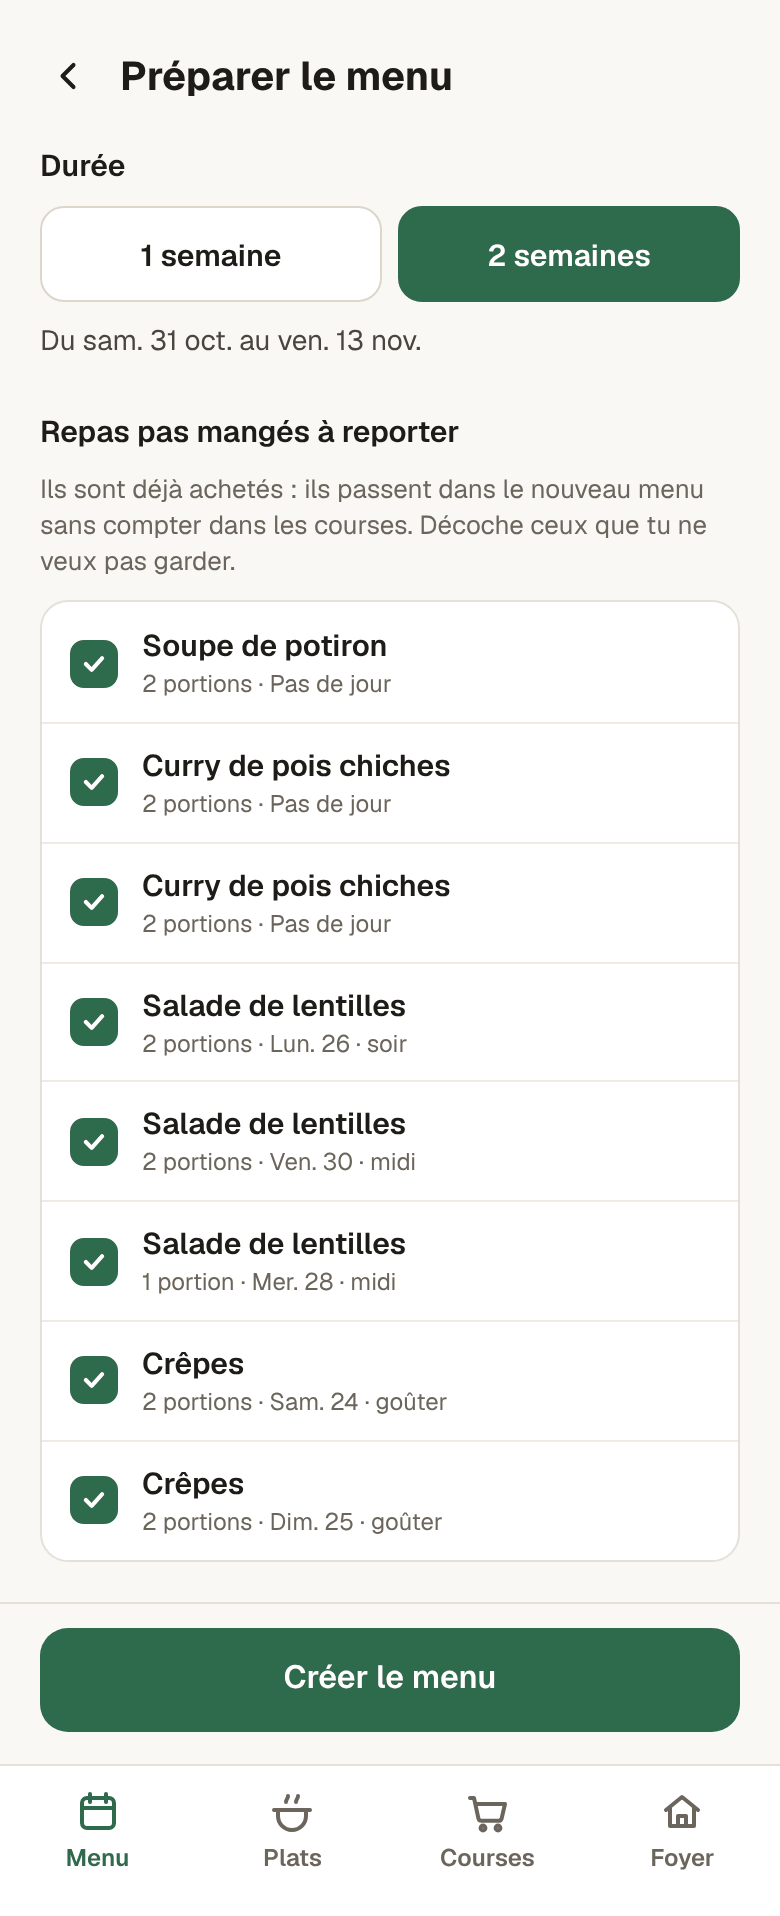
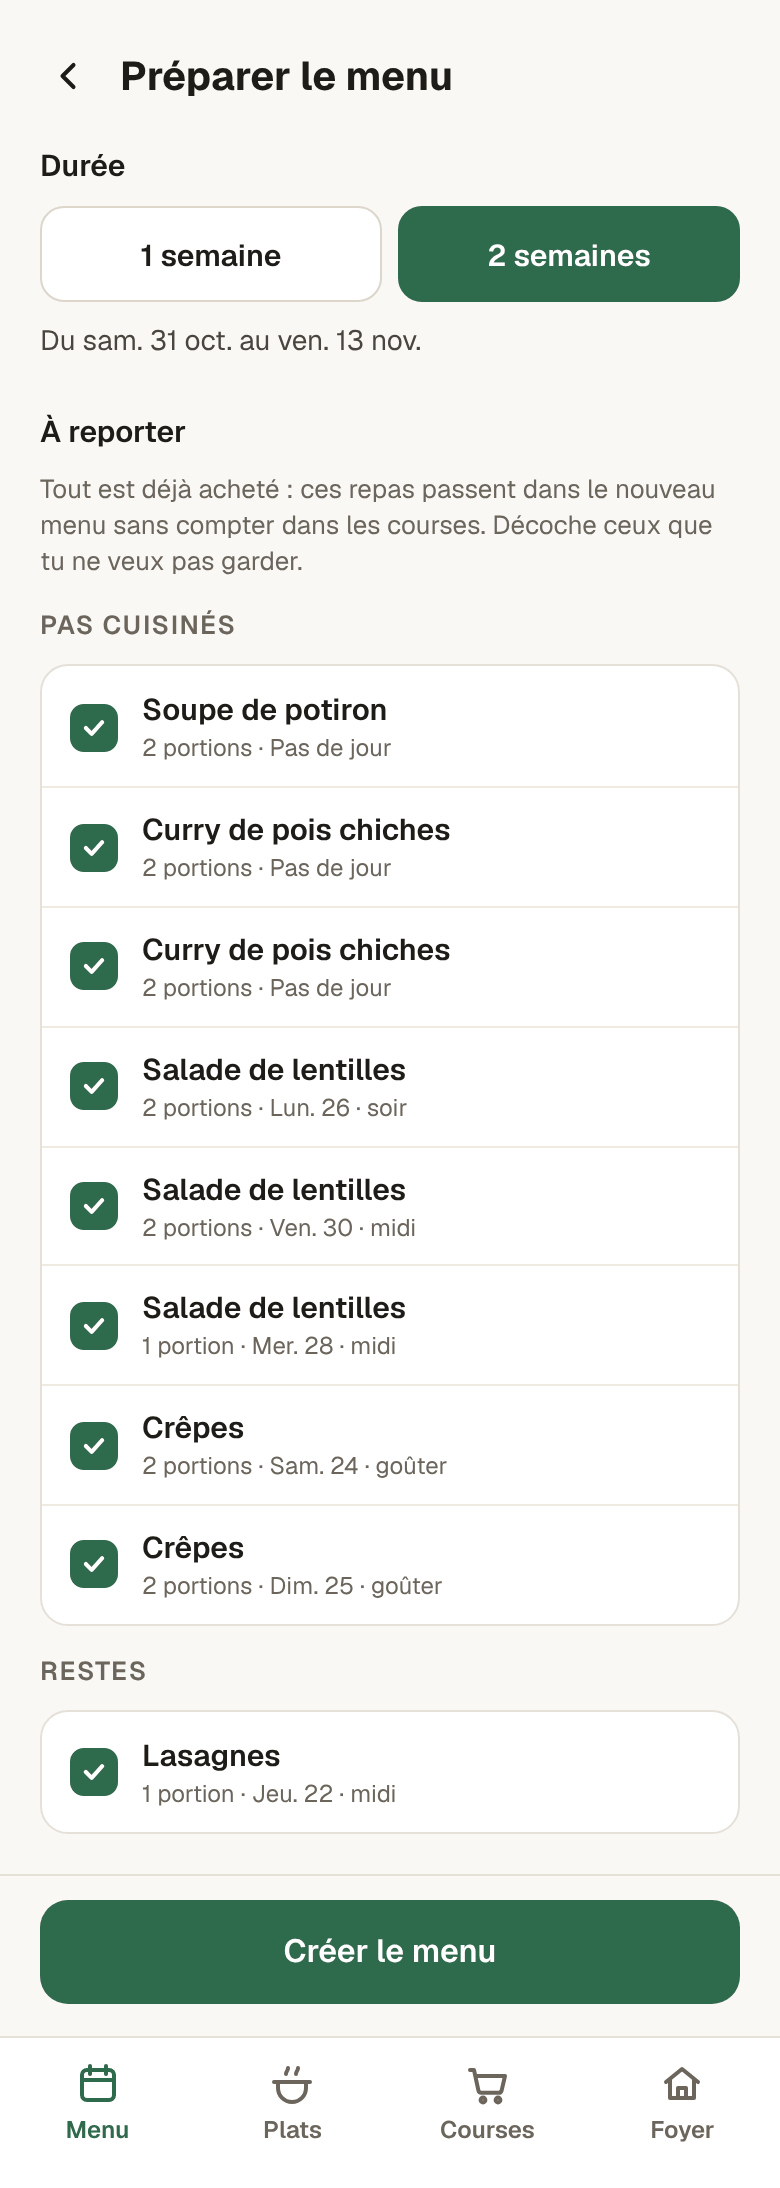
docs: add cooked and split meal to the mockup (#28, #29, #30)
Claude-Session: https://claude.ai/code/session_01JKdr356e4cDrANtMrezvMz

Changed region(s): [[0.0308, 0.0924, 0.9538, 0.9854], [0.1538, 0.0308, 0.5846, 0.0616], [0.0308, 0.0308, 0.1538, 0.0924]]

diff --git a/docs/maquette/maquette.dc.html b/docs/maquette/maquette.dc.html
@@ -63,7 +63,10 @@ input,select,textarea{font:inherit;color:#1E1C19}
 <span aria-hidden="true">·</span>
 <span style="color: {{item.whenColor}}">{{item.when}}</span>
 <sc-if value="{{item.carried}}" hint-placeholder-val="{{false}}">
-<span style="background: #F6E7D6; color: #7A4210; border-radius: 6px; padding: 1px 7px; font-size: 12px; font-weight: 600">Reporté</span>
+<span style="background: #F6E7D6; color: #7A4210; border-radius: 6px; padding: 1px 7px; font-size: 12px; font-weight: 600">{{item.carriedLabel}}</span>
+</sc-if>
+<sc-if value="{{item.toCook}}" hint-placeholder-val="{{false}}">
+<span style="background: #ECE8E0; color: #4A453E; border-radius: 6px; padding: 1px 7px; font-size: 12px; font-weight: 600">À cuisiner</span>
 </sc-if>
 </span>
 </button>
@@ -102,7 +105,11 @@ input,select,textarea{font:inherit;color:#1E1C19}
 </button>
 <button type="button" onClick="{{item.open}}" style="flex: 1; min-width: 0; min-height: 44px; display: flex; flex-direction: column; justify-content: center; gap: 2px">
 <span style="font-size: 16px; font-weight: 600; color: {{item.nameColor}}; text-decoration: {{item.nameDeco}}">{{item.name}}</span>
-<span style="font-size: 13px; color: #6B655C">{{item.portions}} · {{item.slotLabel}}</span>
+<span style="display: flex; flex-wrap: wrap; align-items: center; gap: 6px; font-size: 13px; color: #6B655C"><span>{{item.portions}} · {{item.slotLabel}}</span>
+<sc-if value="{{item.toCook}}" hint-placeholder-val="{{false}}">
+<span style="background: #ECE8E0; color: #4A453E; border-radius: 6px; padding: 1px 7px; font-size: 12px; font-weight: 600">À cuisiner</span>
+</sc-if>
+</span>
 </button>
 <button type="button" onClick="{{item.startMove}}" aria-label="{{item.moveLabel}}" style="width: 44px; height: 44px; flex: none; display: flex; align-items: center; justify-content: center; color: #6B655C; cursor: grab">
 <svg width="20" height="20" viewBox="0 0 24 24" fill="currentColor" aria-hidden="true"><circle cx="9" cy="6" r="1.6"></circle><circle cx="15" cy="6" r="1.6"></circle><circle cx="9" cy="12" r="1.6"></circle><circle cx="15" cy="12" r="1.6"></circle><circle cx="9" cy="18" r="1.6"></circle><circle cx="15" cy="18" r="1.6"></circle></svg>
@@ -154,10 +161,12 @@ Ajouter un plat au menu
 <p style="margin: 0; font-size: 14px; color: #4A453E">{{prepRange}}</p>
 </section>
 <section style="display: flex; flex-direction: column; gap: 10px">
-<h2 style="margin: 0; font-size: 15px; font-weight: 600">Repas pas mangés à reporter</h2>
-<p style="margin: 0; font-size: 13px; color: #6B655C">Ils sont déjà achetés : ils passent dans le nouveau menu sans compter dans les courses. Décoche ceux que tu ne veux pas garder.</p>
+<h2 style="margin: 0; font-size: 15px; font-weight: 600">À reporter</h2>
+<p style="margin: 0; font-size: 13px; color: #6B655C">Tout est déjà acheté : ces repas passent dans le nouveau menu sans compter dans les courses. Décoche ceux que tu ne veux pas garder.</p>
+<sc-if value="{{has_prepUncooked}}" hint-placeholder-val="{{true}}">
+<h3 style="margin: 4px 0 0; font-size: 13px; font-weight: 600; text-transform: uppercase; letter-spacing: 0.06em; color: #6B655C">Pas cuisinés</h3>
 <div style="background: #FFFFFF; border: 1px solid #E6E1D8; border-radius: 14px; overflow: hidden">
-<sc-for list="{{prepCarry}}" as="l" hint-placeholder-count="4">
+<sc-for list="{{prepUncooked}}" as="l" hint-placeholder-count="2">
 <button type="button" onClick="{{l.toggle}}" aria-pressed="{{l.checked}}" style="width: 100%; display: flex; align-items: center; gap: 12px; padding: 10px 14px; min-height: 52px; border-top: 1px solid {{l.sep}}">
 <span style="width: 24px; height: 24px; flex: none; border-radius: 7px; border: 2px solid {{l.boxBorder}}; background: {{l.boxBg}}; display: flex; align-items: center; justify-content: center; box-sizing: border-box">
 <sc-if value="{{l.checked}}" hint-placeholder-val="{{true}}">
@@ -170,10 +179,30 @@ Ajouter un plat au menu
 </span>
 </button>
 </sc-for>
-<sc-if value="{{prepNoCarry}}" hint-placeholder-val="{{false}}">
-<p style="margin: 0; padding: 14px; color: #6B655C; font-size: 14px">Tout a été mangé, rien à reporter.</p>
-</sc-if>
 </div>
+</sc-if>
+<sc-if value="{{has_prepLeft}}" hint-placeholder-val="{{true}}">
+<h3 style="margin: 4px 0 0; font-size: 13px; font-weight: 600; text-transform: uppercase; letter-spacing: 0.06em; color: #6B655C">Restes</h3>
+<div style="background: #FFFFFF; border: 1px solid #E6E1D8; border-radius: 14px; overflow: hidden">
+<sc-for list="{{prepLeft}}" as="l" hint-placeholder-count="2">
+<button type="button" onClick="{{l.toggle}}" aria-pressed="{{l.checked}}" style="width: 100%; display: flex; align-items: center; gap: 12px; padding: 10px 14px; min-height: 52px; border-top: 1px solid {{l.sep}}">
+<span style="width: 24px; height: 24px; flex: none; border-radius: 7px; border: 2px solid {{l.boxBorder}}; background: {{l.boxBg}}; display: flex; align-items: center; justify-content: center; box-sizing: border-box">
+<sc-if value="{{l.checked}}" hint-placeholder-val="{{true}}">
+<svg width="14" height="14" viewBox="0 0 24 24" fill="none" stroke="#FFFFFF" stroke-width="3.5" stroke-linecap="round" stroke-linejoin="round" aria-hidden="true"><path d="M5 12l5 5 9-10"></path></svg>
+</sc-if>
+</span>
+<span style="flex: 1; min-width: 0; display: flex; flex-direction: column; gap: 1px">
+<span style="font-weight: 600">{{l.name}}</span>
+<span style="font-size: 12px; color: #6B655C">{{l.sub}}</span>
+</span>
+</button>
+</sc-for>
+</div>
+</sc-if>
+
+<sc-if value="{{prepNoCarry}}" hint-placeholder-val="{{false}}">
+<p style="margin: 0; padding: 14px; color: #6B655C; font-size: 14px; background: #FFFFFF; border: 1px solid #E6E1D8; border-radius: 14px">Tout a été mangé, rien à reporter.</p>
+</sc-if>
 </section>
 </main>
 <div style="padding: 12px 20px 16px; border-top: 1px solid #E6E1D8; background: #FAF8F4">
@@ -274,6 +303,26 @@ Ajouter un plat au menu
 <span style="font-size: 13px; color: #6B655C">{{meal.batch}}</span>
 <a href="#" onClick="{{meal.openRecipe}}" style="font-size: 14px; font-weight: 600; min-height: 32px; display: flex; align-items: center">Voir la recette</a>
 </div>
+<button type="button" onClick="{{meal.toggleCooked}}" aria-pressed="{{meal.cooked}}" style="display: flex; align-items: center; gap: 12px; background: #FFFFFF; border: 1px solid #E6E1D8; border-radius: 14px; padding: 12px 14px; min-height: 64px; text-align: left">
+<span style="flex: 1; min-width: 0; display: flex; flex-direction: column; gap: 2px">
+<span style="font-weight: 600">Plat cuisiné</span>
+<span style="font-size: 13px; color: #6B655C">{{meal.cookedSub}}</span>
+</span>
+<span style="width: 46px; height: 28px; flex: none; border-radius: 14px; background: {{meal.switchBg}}; display: flex; justify-content: {{meal.switchSide}}; align-items: center; padding: 3px; box-sizing: border-box">
+<span style="width: 22px; height: 22px; border-radius: 11px; background: #FFFFFF"></span>
+</span>
+</button>
+<sc-if value="{{meal.canSplit}}" hint-placeholder-val="{{true}}">
+<section style="display: flex; flex-direction: column; gap: 10px">
+<h2 style="margin: 0; font-size: 15px; font-weight: 600">Séparer ce repas</h2>
+<p style="margin: 0; font-size: 13px; color: #6B655C">Pour des portions que vous ne mangez pas ensemble. La nouvelle part arrive sans jour, à placer.</p>
+<div style="display: flex; flex-wrap: wrap; gap: 8px">
+<sc-for list="{{splitChips}}" as="c" hint-placeholder-count="1">
+<button type="button" onClick="{{c.pick}}" style="min-height: 40px; padding: 0 14px; border-radius: 20px; font-size: 14px; font-weight: 600; border: 1.5px solid #DCD6CB; background: #FFFFFF; color: #1E1C19">{{c.label}}</button>
+</sc-for>
+</div>
+</section>
+</sc-if>
 <section style="display: flex; flex-direction: column; gap: 10px">
 <h2 style="margin: 0; font-size: 15px; font-weight: 600">Jour <span style="font-weight: 400; color: #6B655C">(facultatif)</span></h2>
 <div style="display: flex; flex-wrap: wrap; gap: 8px">
@@ -885,10 +934,11 @@ class Component extends DCLogic {
       // Un menu couvre une période qui commence le jour des courses (ici samedi), pour 1 ou 2 semaines.
       periods: [{ id: 'p1', start: '2026-10-17', days: 14 }],
       // Une « fournée » = une recette cuisinée N fois ; ses portions sont découpées en repas.
+      // cooked = jour (dans la période) où le plat a été cuisiné ; absent = « À cuisiner ».
       batches: [
         { id: 'b1', p: 'p1', plat: 'soupe', times: 1, carried: true },
-        { id: 'b2', p: 'p1', plat: 'lasagnes', times: 1 },
-        { id: 'b3', p: 'p1', plat: 'pesto', times: 1 },
+        { id: 'b2', p: 'p1', plat: 'lasagnes', times: 1, cooked: 3 },
+        { id: 'b3', p: 'p1', plat: 'pesto', times: 1, cooked: 4 },
         { id: 'b4', p: 'p1', plat: 'curry', times: 1 },
         { id: 'b5', p: 'p1', plat: 'lentilles', times: 1 },
         { id: 'b6', p: 'p1', plat: 'crepes', times: 1 }
@@ -896,7 +946,9 @@ class Component extends DCLogic {
       meals: [
         { id: 1, b: 'b1', portions: 2, day: null, slot: null },
         { id: 2, b: 'b2', portions: 2, day: 3, slot: 'Soir', eaten: true },
-        { id: 3, b: 'b2', portions: 2, day: 5, slot: 'Soir', eaten: true },
+        // Lasagnes cuisinées mardi : 2 portions mangées mardi soir, puis 1 portion mercredi et 1 jeudi.
+        { id: 3, b: 'b2', portions: 1, day: 4, slot: 'Midi', eaten: true },
+        { id: 12, b: 'b2', portions: 1, day: 5, slot: 'Midi' },
         { id: 4, b: 'b3', portions: 2, day: 4, slot: 'Midi', eaten: true },
         { id: 5, b: 'b4', portions: 2, day: null, slot: null },
         { id: 6, b: 'b4', portions: 2, day: null, slot: null },
@@ -952,6 +1004,7 @@ class Component extends DCLogic {
     const repasLabel = (n) => n + (n > 1 ? ' repas' : ' repas');
     const green = '#2E6A4C';
     const batchOf = (id) => s.batches.filter((b) => b.id === id)[0];
+    const todayOff = (bt) => { const pr = s.periods.filter((x) => x.id === bt.p)[0]; return Math.round((new Date(TODAY + 'T00:00:00Z') - new Date(pr.start + 'T00:00:00Z')) / 86400000); };
     // Découpe les portions d'une recette en repas pour le foyer : 5 portions à 2 → [2, 2, 1].
     const split = (k, times) => {
       const total = P[k].servings * times, people = s.people, out = [];
@@ -976,7 +1029,8 @@ class Component extends DCLogic {
         name: p.name, portions: portionsLabel(m.portions) + part, when: when(m),
         whenColor: (m.day == null && !m.slot) ? '#8A8378' : '#4A453E',
         slotLabel: m.slot || 'sans moment précis',
-        carried: !!bt.carried, eaten: !!m.eaten,
+        carried: !!bt.carried, carriedLabel: bt.cooked != null ? 'Reste' : 'Reporté', eaten: !!m.eaten,
+        toCook: bt.cooked == null,
         nameColor: m.eaten ? '#8A8378' : '#1E1C19', nameDeco: m.eaten ? 'line-through' : 'none',
         boxBg: m.eaten ? green : '#FFFFFF', boxBorder: m.eaten ? green : '#A8A094',
         boxLabel: (m.eaten ? 'Marquer comme pas mangé : ' : 'Marquer comme mangé : ') + p.name,
@@ -986,7 +1040,11 @@ class Component extends DCLogic {
         startMove: go({ moveId: m.id, dragId: null }),
         dragStart: (e) => { try { e.dataTransfer.setData('text/plain', String(m.id)); e.dataTransfer.effectAllowed = 'move'; } catch (err) {} this.setState({ dragId: m.id, moveId: null }); },
         dragEnd: () => { if (this.state.dragId) this.setState({ dragId: null }); },
-        toggle: () => this.setState({ meals: this.state.meals.map((x) => x.id === m.id ? Object.assign({}, x, { eaten: !x.eaten }) : x) }),
+        // Cocher « mangé » sur un plat pas encore cuisiné le marque aussi cuisiné.
+        toggle: () => this.setState({
+          meals: this.state.meals.map((x) => x.id === m.id ? Object.assign({}, x, { eaten: !x.eaten }) : x),
+          batches: (!m.eaten && bt.cooked == null) ? this.state.batches.map((b) => b.id === bt.id ? Object.assign({}, b, { cooked: m.day != null ? m.day : todayOff(bt) }) : b) : this.state.batches
+        }),
         open: go({ screen: 'meal', mealId: m.id })
       };
     });
@@ -1019,7 +1077,7 @@ class Component extends DCLogic {
     const setMeal = (o) => () => this.setState({ meals: this.state.meals.map((x) => x.id === cm.id ? Object.assign({}, x, o) : x) });
     const chip = (sel) => ({ bg: sel ? green : '#FFFFFF', color: sel ? '#FFFFFF' : '#1E1C19', border: sel ? green : '#DCD6CB' });
     let meal = { name: '', portions: '', batch: '', openRecipe: null };
-    let dayChips = [], slotChips = [];
+    let dayChips = [], slotChips = [], splitChips = [];
     if (cm) {
       const bt = batchOf(cm.b), p = P[bt.plat];
       const siblings = s.meals.filter((x) => x.b === cm.b);
@@ -1027,8 +1085,33 @@ class Component extends DCLogic {
         name: p.name,
         portions: portionsLabel(cm.portions) + (siblings.length > 1 ? ' · repas ' + (siblings.indexOf(cm) + 1) + ' sur ' + siblings.length : ''),
         batch: 'Recette ×' + bt.times + ' (' + portionsLabel(p.servings * bt.times) + ')' + (bt.carried ? ', reportée du menu précédent' : ''),
-        openRecipe: (e) => { if (e && e.preventDefault) e.preventDefault(); this.setState({ screen: 'plat', platId: bt.plat, platBack: 'meal' }); }
+        openRecipe: (e) => { if (e && e.preventDefault) e.preventDefault(); this.setState({ screen: 'plat', platId: bt.plat, platBack: 'meal' }); },
+        // « Plat cuisiné » vaut pour toute la fournée ; le décocher décoche aussi « mangé » sur ses repas.
+        cooked: bt.cooked != null,
+        cookedSub: bt.cooked != null ? 'Cuisiné le ' + (bt.cookedFrom || shortDay(dateAt(batchPeriod(cm.b).start, bt.cooked))) + ', pour tous les repas de ce plat' : 'Pas encore cuisiné',
+        switchBg: bt.cooked != null ? green : '#CFC8BC', switchSide: bt.cooked != null ? 'flex-end' : 'flex-start',
+        toggleCooked: () => {
+          const on = bt.cooked == null;
+          this.setState({
+            batches: this.state.batches.map((b) => b.id === bt.id ? Object.assign({}, b, { cooked: on ? todayOff(bt) : null }) : b),
+            meals: on ? this.state.meals : this.state.meals.map((x) => x.b === bt.id ? Object.assign({}, x, { eaten: false }) : x)
+          });
+        },
+        canSplit: cm.portions > 1
       };
+      // Séparer : n portions partent dans un nouveau repas du même plat, sans jour ; le total ne change pas.
+      splitChips = Array.from({ length: cm.portions - 1 }, (_, i) => i + 1).map((n) => ({
+        label: (cm.portions - n) + ' + ' + n,
+        pick: () => {
+          const st = this.state, nid = st.meals.reduce((mx, x) => Math.max(mx, x.id), 0) + 1;
+          const meals = [];
+          st.meals.forEach((x) => {
+            if (x.id === cm.id) { meals.push(Object.assign({}, x, { portions: x.portions - n })); meals.push({ id: nid, b: x.b, portions: n, day: null, slot: null }); }
+            else meals.push(x);
+          });
+          this.setState({ meals: meals });
+        }
+      }));
       const mp = batchPeriod(cm.b);
       dayChips = [{ label: 'Pas de jour', v: null }].concat(Array.from({ length: mp.days }, (_, i) => ({ label: cap(shortDay(dateAt(mp.start, i))), v: i }))).map((c) => Object.assign({ label: c.label, selected: cm.day === c.v, pick: setMeal({ day: c.v }) }, chip(cm.day === c.v)));
       slotChips = [{ label: 'Aucun', v: null }].concat(D.slots.map((x) => ({ label: x, v: x }))).map((c) => Object.assign({ label: c.label, selected: cm.slot === c.v, pick: setMeal({ slot: c.v }) }, chip(cm.slot === c.v)));
@@ -1149,16 +1232,21 @@ class Component extends DCLogic {
       return {
         name: P[batchOf(m.b).plat].name, sub: portionsLabel(m.portions) + ' · ' + when(m), checked: on,
         sep: i === 0 ? 'transparent' : '#EFEBE3', boxBg: on ? green : '#FFFFFF', boxBorder: on ? green : '#A8A094',
+        cooked: batchOf(m.b).cooked != null,
         toggle: () => { const k = Object.assign({}, this.state.prepSkip); k[m.id] = !k[m.id]; this.setState({ prepSkip: k }); }
       };
     });
+    // Deux groupes : plats jamais cuisinés (reportés entiers) et restes d'un plat déjà cuisiné.
+    const sepFix = (arr) => arr.map((l, i) => Object.assign({}, l, { sep: i === 0 ? 'transparent' : '#EFEBE3' }));
+    const prepUncooked = sepFix(prepCarry.filter((l) => !l.cooked));
+    const prepLeft = sepFix(prepCarry.filter((l) => l.cooked));
     const confirmPrep = () => {
       const st = this.state, nid = 'p' + Date.now();
       const moving = carryMeals.filter((m) => !st.prepSkip[m.id]);
       const newBatches = {};
       moving.forEach((m) => {
         const b = batchOf(m.b);
-        if (!newBatches[b.id]) newBatches[b.id] = { id: b.id + '-r' + nid, p: nid, plat: b.plat, times: b.times, carried: true };
+        if (!newBatches[b.id]) newBatches[b.id] = { id: b.id + '-r' + nid, p: nid, plat: b.plat, times: b.times, carried: true, cooked: b.cooked != null ? 0 : null, cookedFrom: b.cooked != null ? (b.cookedFrom || shortDay(dateAt(batchPeriod(m.b).start, b.cooked))) : null };
       });
       const meals = st.meals.map((m) => moving.indexOf(m) !== -1 ? Object.assign({}, m, { b: newBatches[m.b].id, day: null, slot: null }) : m);
       const periods = st.periods.concat([{ id: nid, start: nextStart, days: st.prepDays }]);
@@ -1241,6 +1329,7 @@ class Component extends DCLogic {
       openPrep: go({ screen: 'prep', prepDays: s.duration, prepSkip: {} }),
       prepDurations: [7, 14].map((n) => Object.assign({ label: lengthLabel(n), selected: s.prepDays === n, pick: go({ prepDays: n }) }, chip(s.prepDays === n))),
       prepRange: rangeLabel(prepPeriod), prepCarry: prepCarry, prepNoCarry: prepCarry.length === 0, confirmPrep: confirmPrep,
+      prepUncooked: prepUncooked, prepLeft: prepLeft, has_prepUncooked: prepUncooked.length > 0, has_prepLeft: prepLeft.length > 0,
       shopDayChips: ['Lun.', 'Mar.', 'Mer.', 'Jeu.', 'Ven.', 'Sam.', 'Dim.'].map((l, i) => Object.assign({ label: l, selected: s.shopDay === i, pick: go({ shopDay: i }) }, chip(s.shopDay === i))),
       durationChips: [7, 14].map((n) => Object.assign({ label: lengthLabel(n), selected: s.duration === n, pick: go({ duration: n }) }, chip(s.duration === n))),
       coursesPeriod: period ? 'Menu ' + rangeLabel(period).charAt(0).toLowerCase() + rangeLabel(period).slice(1) : 'Pas de menu pour cette période',
@@ -1256,7 +1345,7 @@ class Component extends DCLogic {
       openRecap: go({ screen: 'addRecap', recapBack: 'addPick' }),
       confirmMulti: confirmMulti,
 
-      meal: meal, dayChips: dayChips, slotChips: slotChips, removeMeal: removeMeal,
+      meal: meal, dayChips: dayChips, slotChips: slotChips, splitChips: splitChips, removeMeal: removeMeal,
 
       search: s.search, onSearch: (e) => this.setState({ search: e.target.value }),
       platList: platList, platsEmpty: platList.length === 0,

diff --git a/docs/maquette/README.md b/docs/maquette/README.md
@@ -21,13 +21,13 @@ Si la maquette change sur claude.ai, il faut refaire la copie et les captures da
 
 | Capture | Écran | Tickets |
 |---|---|---|
-| [01-menu-liste](ecrans/01-menu-liste.png) | Accueil : menu en cours, vue « En liste » (période, repas, case « mangé », badge « Reporté ») | #28, #30 |
+| [01-menu-liste](ecrans/01-menu-liste.png) | Accueil : menu en cours, vue « En liste » (période, repas, case « mangé », badges « À cuisiner », « Reporté » et « Reste ») | #28, #30 |
 | [02-menu-par-jour](ecrans/02-menu-par-jour.png) | Accueil, vue « Par jour » : « À placer » puis tous les jours du menu | #29 |
 | [03-menu-deplacer-repas](ecrans/03-menu-deplacer-repas.png) | Vue « Par jour » après la poignée ⋮⋮ : boutons « Placer ici » | #29 |
-| [04-preparer-menu-suivant](ecrans/04-preparer-menu-suivant.png) | Préparer le menu suivant : durée, repas pas mangés à reporter | #30 |
+| [04-preparer-menu-suivant](ecrans/04-preparer-menu-suivant.png) | Préparer le menu suivant : durée, repas à reporter en deux groupes (« Pas cuisinés », « Restes ») | #30 |
 | [05-ajouter-choisir-plats](ecrans/05-ajouter-choisir-plats.png) | Ajouter au menu, étape 1 : choisir plusieurs plats | #28 |
 | [06-ajouter-recap](ecrans/06-ajouter-recap.png) | Ajouter au menu, étape 2 : × N par recette et découpe en repas | #28 |
-| [07-repas](ecrans/07-repas.png) | Fiche repas : jour et moment facultatifs, retirer le repas | #29 |
+| [07-repas](ecrans/07-repas.png) | Fiche repas : « Plat cuisiné », « Séparer ce repas », jour et moment facultatifs, retirer le repas | #29 |
 | [08-plats](ecrans/08-plats.png) | Onglet Plats : liste, recherche, badge « Au menu » | #25 |
 | [09-fiche-plat](ecrans/09-fiche-plat.png) | Fiche du plat : portions, ingrédients, recette, macros | #25 (bouton « Ajouter au menu » : #28) |
 | [10-modifier-plat](ecrans/10-modifier-plat.png) | Modifier un plat (et le supprimer, en bas) | #25 |
@@ -47,5 +47,5 @@ Relevés dans la source, à reprendre dans le thème (ticket #17) :
 - Police : Geist.
 - Fond `#FAF8F4`, cartes `#FFFFFF` avec bordure `#E6E1D8`, texte `#1E1C19`, texte secondaire `#6B655C`.
 - Couleur principale (boutons, onglet actif, cases cochées) : vert `#2E6A4C`, plus foncé au survol `#1F4D36`.
-- Danger (supprimer) : `#A3341F`. Badge « Reporté » : fond `#F6E7D6`, texte `#5E3410`.
+- Danger (supprimer) : `#A3341F`. Badges « Reporté » et « Reste » : fond `#F6E7D6`, texte `#5E3410`. Badge « À cuisiner » : fond `#ECE8E0`, texte `#4A453E`.
 - Coins arrondis de 10 à 14 px. Zones touchables d'au moins 44 px de haut.
